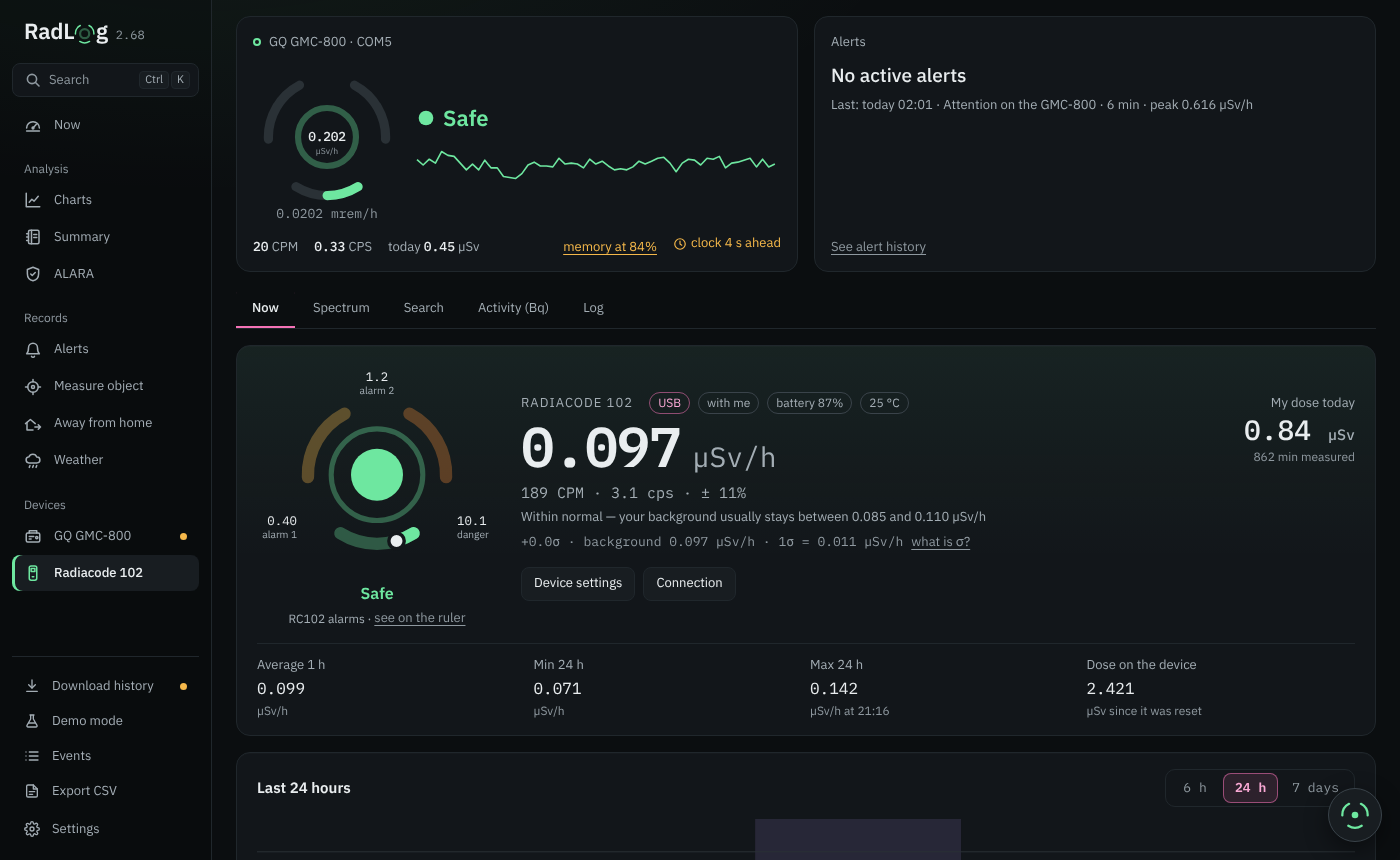
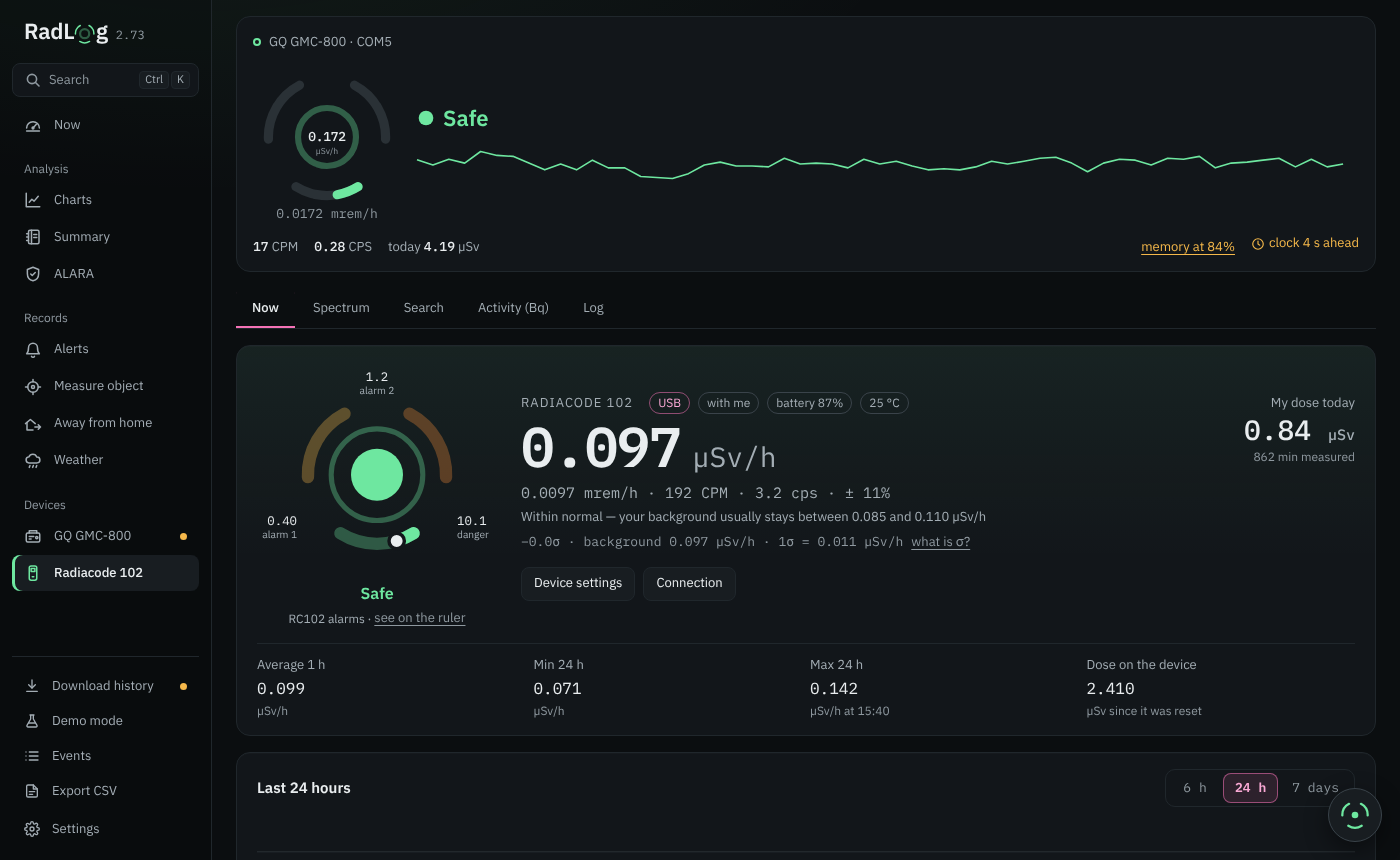
Topo sem o quadro de alertas e memória do GMC-800 em duas linhas (2.73.0) (#111)
Claude-Session: https://claude.ai/code/session_01X9BEmWKCNR5s4Rvou2fuqr

diff --git a/frontend/dist/app.js b/frontend/dist/app.js
@@ -313,7 +313,7 @@ const LV_SAY = {
 function tileState(pfx, lvl, word, say) {
   const el = $(pfx + "Tile");
   TILE_LV.forEach((l) => el.classList.toggle("lv-" + l, lvl === l));
-  lvLabel($(pfx + "TileState"), lvl, word, pfx === "a" ? 14 : 18);
+  lvLabel($(pfx + "TileState"), lvl, word, 18);
   const sayEl = $(pfx + "TileSay");
   if (sayEl) sayEl.textContent = say != null ? say : LV_SAY[lvl] || "";
 }
@@ -408,15 +408,15 @@ function renderRTile(st, o) {
   tileFoot($("rTileFoot"), u, v, dose, st.todayDevOK ? "do aparelho" : "", rcc ? { t: st.lastT || 0 } : null);
 }
 
-// alertas: o ativo mais alto (borda na cor do nível) ou o último que passou
-function renderATile() {
+// alertas ativos: a marca no menu (#navAlerts) e no topo compacto (#miniAlert);
+// o quadro "Alertas" do topo saiu na 2.73 (a faixa de cima já avisa)
+function renderAlertMarks() {
   const list = state.activeAlerts || [];
   const rank = { atencao: 1, alarme: 2, perigo: 3 };
   const dev = (e) => (isRcEv(e) ? "RC102" : "GMC-800");
   const top = list.slice().sort((a, b) => (rank[lvlCls(b)] || 1) - (rank[lvlCls(a)] || 1) || a.time - b.time)[0];
   const srcs = new Set(list.map((e) => dev(e) + (e.demo ? " demo" : "")));
   const lv = top ? { alarme: "alarme", perigo: "perigo" }[lvlCls(top)] || "atencao" : "";
-  tileState("a", lv, srcs.size > 1 ? `${srcs.size} aparelhos` : "");
   const ma = $("miniAlert");
   ma.hidden = !top;
   ma.className = "mini-alert" + (lv ? " lv-" + lv : "");
@@ -430,16 +430,6 @@ function renderATile() {
   nav.textContent = String(srcs.size);
   if (lv) nav.insertAdjacentHTML("afterbegin", lvIcon(lv, 10, "Nível: " + LV_WORD[lv]));
   nav.className = "side-badge mono" + (lv ? " lv-" + lv : "");
-  if (top) {
-    $("aTileTitle").textContent = `${lvlName(top)} no ${dev(top)}` + (top.demo ? " (demo)" : "");
-    $("aTileText").textContent = `desde ${hhmm(top.time)} (${fmtDur(Date.now() - top.time)}) · pico ${evVal(top, top.peak)}`;
-    return;
-  }
-  $("aTileTitle").textContent = "Nenhum alerta ativo";
-  const e = state.lastAlert;
-  $("aTileText").textContent = e
-    ? `Último: ${whenLabel(e.time)} · ${lvlName(e)} no ${dev(e)}` + (e.end ? ` · ${fmtDur(e.end - e.time)}` : "") + (e.peak ? ` · pico ${evVal(e, e.peak)}` : "")
-    : "Nenhum alerta registrado ainda.";
 }
 
 // a faixa de atenção/alarme fica presa no topo: o menu começa embaixo dela
@@ -3854,6 +3844,30 @@ const startMonth = (t, add) => { const d = new Date(t); return new Date(d.getFul
 
 // ---------- memória e sincronização do contador (2.7) ----------
 
+// Configurações › GQ GMC-800 › Contador: duas linhas curtas (Memória e
+// Download) e a explicação embaixo (2.73, U1 da auditoria; spec
+// ux/topo-sem-alertas.html, item 6). Cada frase num span: juntas, a tradução
+// não achava o molde (U3).
+function renderMemInfo(cs, pct) {
+  const mem = $("iMem");
+  mem.textContent = !cs.estPct ? "—" : cs.fullIn > 0 ? `${pct}% · enche em ${fmtDuration(cs.fullIn)}` : `${pct}%`;
+  mem.classList.toggle("mem-att", cs.memLevel === "atencao");
+  mem.classList.toggle("mem-full", cs.memLevel === "cheia");
+  const when = cs.at ? `${ddmm(cs.at)} ${hhmm(cs.at)}` : "";
+  const dl = { "em-dia": `em dia · ${when}`, pendente: `falta ${fmtDur((cs.pendingMinutes || 0) * 60e3)}`, "sem-gravacao": "contador não grava", nunca: "nunca" }[cs.state] || "—";
+  $("iSync").textContent = cs.known && !cs.complete ? `${dl} · incompleto` : dl;
+  const note = [];
+  if (cs.state === "em-dia") note.push("Em dia: nenhum trecho sem leitura no app desde o último download.");
+  else if (cs.state === "sem-gravacao") note.push("O contador não está gravando na memória: minutos sem o app não podem ser recuperados.");
+  else if (cs.text) note.push(cs.text);
+  if (cs.known && !cs.complete && cs.state !== "nunca" && !note.some((t) => t.includes("interrompido"))) note.push("O último download foi interrompido antes do fim da memória.");
+  if (cs.estPct) note.push(`A porcentagem é estimada a partir do download, no modo de gravação "${cs.saveMode}".`);
+  const p = $("iSyncNote");
+  p.replaceChildren();
+  note.forEach((t, i) => { if (i) p.append(" "); p.append(Object.assign(document.createElement("span"), { textContent: t })); });
+  p.hidden = !note.length;
+}
+
 async function refreshCounterSync(cs) {
   if (!cs) {
     if (!api.GetCounterSync) return;
@@ -3864,11 +3878,7 @@ async function refreshCounterSync(cs) {
   const memTxt = !cs.estPct ? "" : cs.fullIn > 0
     ? `A memória está cerca de ${pct}% ocupada (estimado desde o download) e enche em cerca de ${fmtDuration(cs.fullIn)} no modo "${cs.saveMode}".`
     : `A memória está cerca de ${pct}% ocupada (estimado desde o download).`;
-  // duas frases em dois spans: juntas num texto só, a tradução não achava o
-  // molde e saía misturada (auditoria de 12/11, U3)
-  const iSync = $("iSync");
-  iSync.replaceChildren(Object.assign(document.createElement("span"), { textContent: cs.text }));
-  if (memTxt) iSync.append(" ", Object.assign(document.createElement("span"), { textContent: memTxt }));
+  renderMemInfo(cs, pct);
   const warnMem = cs.memLevel === "atencao" || cs.memLevel === "cheia";
   const show = cs.state === "pendente" || warnMem;
   const card = $("syncCard");

diff --git a/frontend/dist/style.css b/frontend/dist/style.css
@@ -1266,15 +1266,9 @@ dialog.logs-dlg { width: min(1180px, calc(100vw - 32px)); height: min(860px, cal
 
 /* painel dos aparelhos */
 .instruments { display: grid; grid-template-columns: repeat(auto-fit, minmax(290px, 1fr)); gap: var(--space-4); }
-/* duas colunas (janela média): o quadro dos alertas fica numa linha só, embaixo */
-@media (min-width: 901px) and (max-width: 1153px), (min-width: 622px) and (max-width: 900px) {
-  .instruments { grid-template-columns: repeat(2, minmax(0, 1fr)); }
-  .inst.inst-alerts { grid-column: 1 / -1; display: grid; grid-template-columns: auto minmax(0, 1fr) auto; align-items: baseline; gap: var(--space-1) var(--space-4); }
-  .inst-alerts .inst-head { grid-column: 1 / -1; }
-  .inst-alerts > .inst-fill { display: none; }
-  .instruments:has(#rTile[hidden]) .inst.inst-alerts { grid-column: auto; display: flex; }
-  .instruments:has(#rTile[hidden]) .inst-alerts > .inst-fill { display: block; }
-}
+/* só os quadros dos aparelhos visíveis (2.73, ux/topo-sem-alertas.html):
+   dois dividem a largura, um sozinho ocupa a largura toda */
+@media (min-width: 622px) { .instruments { grid-template-columns: none; grid-auto-flow: column; grid-auto-columns: minmax(0, 1fr); } }
 @media (max-width: 621px) { .instruments { grid-template-columns: minmax(0, 1fr); } }
 .inst { --sc: var(--accent); min-width: 0; display: flex; flex-direction: column; gap: var(--space-2); padding: var(--space-3) var(--space-4); background: var(--surface); border: 1px solid var(--border); border-radius: var(--radius-lg); transition: border-color .4s, background-color .4s; }
 .inst-head { display: flex; align-items: center; gap: var(--space-2); min-width: 0; min-height: 26px; font-size: var(--fs-label); }
@@ -1317,18 +1311,15 @@ dialog.logs-dlg { width: min(1180px, calc(100vw - 32px)); height: min(860px, cal
 .inst-sub { color: var(--dim); }
 .inst .inst-warn { color: var(--att); }
 .inst .inst-warn.full { color: var(--warn); }
-.inst-al-title { font-size: var(--fs-title); font-weight: 500; line-height: 1.3; }
-.inst-al-text { margin: 0; font-size: var(--fs-label); color: var(--muted); }
-.inst-al-link { align-self: flex-start; }
 
 /* só a faixa da leitura acende; borda e estado na cor do nível */
 .inst.lv-seguro .inst-state { color: var(--accent); }
 .inst.lv-atencao, .inst.lv-nocount { --sc: var(--att); border-color: var(--att); background: linear-gradient(180deg, color-mix(in srgb, var(--att) 6%, transparent), transparent 70%), var(--surface); }
 .inst.lv-alarme { --sc: var(--alarm); border-color: var(--alarm); background: linear-gradient(180deg, color-mix(in srgb, var(--alarm) 12%, transparent), transparent 70%), var(--surface); }
 .inst.lv-perigo { --sc: var(--warn); border-color: var(--warn); background: linear-gradient(180deg, color-mix(in srgb, var(--warn) 12%, transparent), transparent 70%), var(--surface); }
-.inst.lv-atencao .inst-state, .inst.lv-nocount .inst-state, .inst.lv-atencao .inst-al-title { color: var(--att); }
-.inst.lv-alarme .inst-state, .inst.lv-alarme .inst-al-title { color: var(--alarm); }
-.inst.lv-perigo .inst-state, .inst.lv-perigo .inst-al-title { color: var(--warn); }
+.inst.lv-atencao .inst-state, .inst.lv-nocount .inst-state { color: var(--att); }
+.inst.lv-alarme .inst-state { color: var(--alarm); }
+.inst.lv-perigo .inst-state { color: var(--warn); }
 .inst-rc.lv-atencao, .inst-rc.lv-alarme, .inst-rc.lv-perigo { --sc: var(--rc); }
 
 /* páginas: gráfico maior, já que agora ocupa a largura toda */
@@ -1677,15 +1668,9 @@ table.cc-cmp td:first-child { color: var(--muted); }
 
 /* ---------- tela do aparelho (2.31.0) ----------
    O valor aparece uma vez só: o quadro do próprio aparelho sai da fileira de
-   cima e o do outro fica igual ao do Agora, ao lado dos alertas (2.38.1). O mostrador grande faz o
+   cima e o do outro fica sozinho, na largura toda (2.73). O mostrador grande faz o
    papel da régua (faixas sempre à vista, acesas até a leitura). */
 .instruments[data-page="gmc"] #gTile, .instruments[data-page="radiacode"] #rTile { display: none; }
-@media (min-width: 622px) {
-  .instruments[data-page="gmc"], .instruments[data-page="radiacode"] { grid-template-columns: repeat(2, minmax(0, 1fr)); }
-  .instruments[data-page] .inst.inst-alerts { grid-column: auto; display: flex; }
-  .instruments[data-page] .inst-alerts > .inst-fill { display: block; }
-  .instruments[data-page="gmc"]:has(#rTile[hidden]) .inst.inst-alerts { grid-column: 1 / -1; }
-}
 
 .hero, .rc-main { display: grid; grid-template-columns: auto minmax(0, 1fr); column-gap: var(--space-6); align-items: center; }
 .hero > *, .rc-main > * { grid-column: 1 / -1; }
@@ -2785,3 +2770,8 @@ dialog.trip-dlg { width: min(1040px, calc(100vw - 32px)); }
 .uso-chips { display: flex; flex-wrap: wrap; gap: var(--space-2); margin-bottom: var(--space-3); }
 #usoFoot { margin-top: var(--space-2); }
 .uso-chips span { border: 1px dashed var(--border); border-radius: var(--radius-pill); padding: 2px var(--space-3); font-size: var(--fs-label); color: var(--muted); }
+
+/* Configurações › GQ GMC-800 › Contador: Memória e Download (2.73, U1) */
+#iMem.mem-att { color: var(--att); }
+#iMem.mem-full { color: var(--warn); }
+#iSyncNote { margin: var(--space-3) 0 0; text-align: left; }

diff --git a/frontend/dist/demo.js b/frontend/dist/demo.js
@@ -43,7 +43,7 @@ function makeDemoApi() {
     { id: "b", name: "notebook", addrs: ["192.168.0.20:47862", "100.88.1.7:47862"], manualAddrs: [], lastSync: Date.now() - 4 * 6e4, lastTry: Date.now() - 4 * 6e4, lastResult: "trouxe: 12 minutos · levou: 1.440 minutos, 2 alertas" }] };
   // versões que o modo demonstração mostra em "Atualizações e sobre"; ao refazer
   // os prints do README, acerte para a versão atual e a seguinte (U4)
-  let demoUpd = { current: "2.70.0", latest: "2.71.0", available: true, canAuto: true, url: "https://github.com/matheusAFreitas/radlog/releases",
+  let demoUpd = { current: "2.73.0", latest: "2.74.0", available: true, canAuto: true, url: "https://github.com/matheusAFreitas/radlog/releases",
     notes: "- **Atualização pelo app**: avisa quando sai versão nova.\n- Outra coisa melhor.", checkedAt: Date.now(), state: "" };
   demoBus = {};
   const emit = (n, d) => (demoBus[n] || []).forEach((f) => f(d));
@@ -58,6 +58,7 @@ function makeDemoApi() {
   const dev = { port: "COM5", version: "GMC-800Re1.23", serial: "5A 10 33 38 31 30 03 00 48 36 37 31", clockDrift: 4, usvPerCPM: 0.0101, calibration: { source: "contador" } };
   let status = { state: "conectado", message: "", device: dev, downloading: false, dataDir: "C:\\Users\\voce\\AppData\\Roaming\\RadLog" };
   let demoUsageOn = true;
+  let demoUsageReset = 0; // "Zerar contagem" no demo: some o exemplo
   let settings = { usageOn: true, levels: {}, port: "COM5", autoConnect: true, alarmEnabled: true, alarmCPM: 100, alarmSound: "sirene", alarmRaise: true };
   const demoCfg = {
     values: { saveMode: 2, powerSaving: 1, backlight: 10, led: 1, fastEstimate: 3, alarmVolume: 15, clickSound: 0, voiceVolume: 0, vibration: 1, alarmCPM: 100, theme: 4 },
@@ -853,6 +854,7 @@ const demoRc = () => {
     SetSyncAuto: async (on) => (demoSync = { ...demoSync, auto: on }),
     // uso do app (uso.js): números de exemplo, como na maquete da spec
     GetUsage: async (days) => {
+      if (demoUsageReset) return { on: demoUsageOn, since: demoUsageReset, days: 0, totals: {} };
       const f = days === 7 ? 0.25 : days === 30 ? 1 : 1.6;
       // chaves sem aspas: o i18n_extract não confunde "chuva" ou "hora" com texto da tela
       const pg = { agora: [420, 41 * 3600], radiacode: [260, 9 * 3600], graficos: [180, 6 * 3600], resumo: [60, 2 * 3600], alertas: [40, 3600], gmc: [30, 3300], config: [25, 2400], fora: [12, 1080], alara: [5, 360], chuva: [2, 60] };
@@ -866,7 +868,7 @@ const demoRc = () => {
       return { on: demoUsageOn, since: Date.now() - 34 * 864e5, days: days || 34, totals };
     },
     SetUsageOn: async (on) => { demoUsageOn = on; settings.usageOn = on; return { on, since: 0, days: 0, totals: {} }; },
-    ResetUsage: async () => ({ on: demoUsageOn, since: Date.now(), days: 0, totals: {} }),
+    ResetUsage: async () => { demoUsageReset = Date.now(); return { on: demoUsageOn, since: demoUsageReset, days: 0, totals: {} }; },
     RecordUsage: async () => {},
     ShowPairCode: async () => (demoSync = { ...demoSync, code: "482913", codeUntil: Date.now() + 300e3 }),
     CancelPairCode: async () => (demoSync = { ...demoSync, code: "" }),

diff --git a/frontend/dist/i18n-en.js b/frontend/dist/i18n-en.js
@@ -3643,7 +3643,10 @@ const I18N_EN = {
 "0 · nunca": "0 · never",
 "nada": "nothing",
 "Zerar": "Reset",
-"nunca": "never"
+"nunca": "never",
+"Em dia: nenhum trecho sem leitura no app desde o último download.": "Up to date: no stretch without readings in the app since the last download.",
+"contador não grava": "counter isn't saving",
+"Download": "Download"
 },
 "patterns": [
 [
@@ -5242,6 +5245,15 @@ const I18N_EN = {
 [
 "Vale olhar: ",
 ". Não é alarme: é sobre o aparelho, não sobre a radiação."
+]
+],
+[
+"A porcentagem é estimada a partir do download, no modo de gravação \"",
+"^A porcentagem é estimada a partir do download, no modo de gravação \"((?:(?! · ).)+?)\"\\.$",
+"The percentage is estimated from the download, in the \"${1}\" save mode.",
+[
+"A porcentagem é estimada a partir do download, no modo de gravação \"",
+"\"."
 ]
 ],
 [
@@ -13795,6 +13807,22 @@ const I18N_EN = {
 ]
 ],
 [
+"",
+"^((?:(?! · ).)+?)% · enche em ((?:(?! · ).)+?)$",
+"${1}% · full in ${2}",
+[
+"% · enche em "
+]
+],
+[
+"",
+"^((?:(?! · ).)+?) · incompleto$",
+"${1} · incomplete",
+[
+" · incompleto"
+]
+],
+[
 "calibração: ",
 "^calibração: ((?:(?! · ).)+?)$",
 "calibration: ${1}",
@@ -15121,6 +15149,14 @@ const I18N_EN = {
 ]
 ],
 [
+"em dia · ",
+"^em dia · ((?:(?! · ).)+?)$",
+"up to date · ${1}",
+[
+"em dia · "
+]
+],
+[
 "",
 "^((?:(?! · ).)+?) alarmes$",
 "${1} alarms",
@@ -15769,6 +15805,14 @@ const I18N_EN = {
 "Today, ${1}",
 [
 "Hoje, "
+]
+],
+[
+"falta ",
+"^falta ((?:(?! · ).)+?)$",
+"missing ${1}",
+[
+"falta "
 ]
 ],
 [

diff --git a/frontend/dist/uso.js b/frontend/dist/uso.js
@@ -172,6 +172,9 @@ function usoKeyName(k) {
 
 // ---------- números ----------
 
+// dd/mm/aaaa nos dois idiomas, como o resto do app
+function usoDate(ms) { const d = new Date(ms); return ddmm(ms) + "/" + d.getFullYear(); }
+
 function usoDur(s) {
   if (!s) return "0";
   if (s < 60) return "<1 min";
@@ -290,7 +293,7 @@ function renderUso() {
   for (const n of never) { const s = document.createElement("span"); s.textContent = n; nv.append(s); }
   if (!never.length) { const s = document.createElement("span"); s.textContent = tr("tudo foi usado"); nv.append(s); }
 
-  const since = info.since ? new Date(info.since).toLocaleDateString(LOCALE) : "—";
+  const since = info.since ? usoDate(info.since) : "—";
   $("usoFoot").textContent = info.on
     ? tr(`Contado só neste computador · desde ${since}`)
     : tr("Contagem desligada · o que já foi contado fica guardado até zerar");
@@ -301,7 +304,7 @@ function usoSummaryText() {
   const info = USO.info;
   if (!info) return "";
   const per = USO.days ? `${USO.days} dias` : "tudo";
-  const since = info.since ? new Date(info.since).toLocaleDateString(LOCALE) : "—";
+  const since = info.since ? usoDate(info.since) : "—";
   const L = [tr(`Uso do RadLog (${tr(per)}, contando desde ${since})`)];
   L.push(tr("Páginas:"));
   for (const p of usoPages(info)) L.push("- " + p.name + ": " + usoDur(p.c.s) + ", " + usoTimes(p.c.n || 0));

diff --git a/frontend/dist/index.html b/frontend/dist/index.html
@@ -197,13 +197,6 @@
       </div>
       <footer class="inst-foot" id="rTileFoot"></footer>
     </article>
-    <article class="inst inst-alerts" id="aTile">
-      <header class="inst-head"><span class="inst-name">Alertas</span><span class="inst-fill"></span><span class="inst-state" id="aTileState"></span></header>
-      <div class="inst-al-title" id="aTileTitle">Nenhum alerta ativo</div>
-      <p class="inst-al-text" id="aTileText"></p>
-      <span class="inst-fill"></span>
-      <button type="button" class="link small-link inst-al-link" data-view="alertas">Ver histórico de alertas</button>
-    </article>
 </section>
 
 <main class="pages" id="pages">
@@ -1561,8 +1554,10 @@
           <dt>Porta</dt><dd class="mono" id="iPort">—</dd>
           <dt>Relógio</dt><dd class="mono" id="iClock">—</dd>
           <dt>Calibração</dt><dd class="mono" id="iCal">—</dd>
-          <dt>Memória</dt><dd id="iSync">—</dd>
+          <dt>Memória</dt><dd class="mono" id="iMem">—</dd>
+          <dt>Download</dt><dd id="iSync">—</dd>
         </dl>
+        <p class="small muted" id="iSyncNote" hidden></p>
       </fieldset>
     </div>
     <div class="set-col">

diff --git a/frontend/dist/alertas.js b/frontend/dist/alertas.js
@@ -171,7 +171,7 @@ function alertLi(e, other) {
 function renderActive() {
   const ul = $("activeAlerts");
   const list = state.activeAlerts || [];
-  renderATile();
+  renderAlertMarks();
   ul.textContent = "";
   if (!list.length) {
     ul.innerHTML = `<li class="none">${lvIcon("seguro", 12)}<b>Nenhum alerta agora</b></li>`;
@@ -472,8 +472,7 @@ async function refreshAlerts() {
   const [all, active] = await Promise.all([api.GetEvents("alerta"), api.GetActiveAlerts()]);
   state.activeAlerts = active || [];
   renderActive();
-  state.lastAlert = groupEpisodes(all || []).find((e) => !e.active) || null;
-  renderATile();
+  renderAlertMarks();
   if (state.view === "alertas") renderAlertHistory(all || []);
 }
 

diff --git a/internal/app/version.go b/internal/app/version.go
@@ -4,7 +4,7 @@ import "runtime"
 
 // AppVersion é a versão do app. Ao mudar, atualize também build/windows/winres.json
 // e o CHANGELOG.md.
-const AppVersion = "2.72.0"
+const AppVersion = "2.73.0"
 
 // GetVersion devolve a versão do app.
 func (a *App) GetVersion() string { return AppVersion }

diff --git a/CHANGELOG.md b/CHANGELOG.md
@@ -1,5 +1,39 @@
 # Versões
 
+## 2.73.0
+Topo sem o quadro de alertas e memória do GMC-800 em duas linhas (U1 e U2 da
+auditoria; spec ux/topo-sem-alertas.html).
+
+- O quadro "Alertas" sai do topo de todas as telas: quando há alerta, a faixa
+  de cima já avisa, e o menu e o topo compacto continuam com a marca. O
+  último alerta e o histórico ficam na tela Alertas. Os quadros dos aparelhos
+  dividem a largura; quando aparece um só (um aparelho conectado, ou as
+  páginas GQ GMC-800 e Radiacode 102), ele ocupa a largura toda.
+- Configurações › GQ GMC-800 › Conexão: o campo Memória vira duas linhas
+  curtas, "Memória" (quanto está ocupado e quando enche) e "Download" (em dia,
+  quanto falta, contador não grava ou nunca), com a explicação embaixo.
+- Uso do app: a data do "desde" sai como dd/mm/aaaa também em inglês, e no
+  modo demonstração "Zerar contagem" zera o exemplo.
+- Prints do README refeitos sem o quadro de alertas.
+
+**English**
+
+Top row without the alerts box and GMC-800 memory in two lines (audit items
+U1 and U2; spec ux/topo-sem-alertas.html).
+
+- The "Alerts" box leaves the top of every screen: when there is an alert,
+  the bar at the top already says so, and the menu and the compact top still
+  show the mark. The last alert and the history are on the Alerts screen. The
+  device boxes share the width; when only one shows (one device connected,
+  or the GQ GMC-800 and Radiacode 102 pages), it takes the full width.
+- Settings › GQ GMC-800 › Connection: the Memory field becomes two short
+  lines, "Memory" (how full it is and when it fills up) and "Download" (up to
+  date, how much is missing, counter isn't saving, or never), with the
+  explanation below.
+- App usage: the "since" date shows as dd/mm/yyyy in English too, and in
+  demo mode "Reset count" resets the example.
+- README screenshots redone without the alerts box.
+
 ## 2.72.0
 Novo "Uso do app" (spec ux/uso-do-app.html).
 
